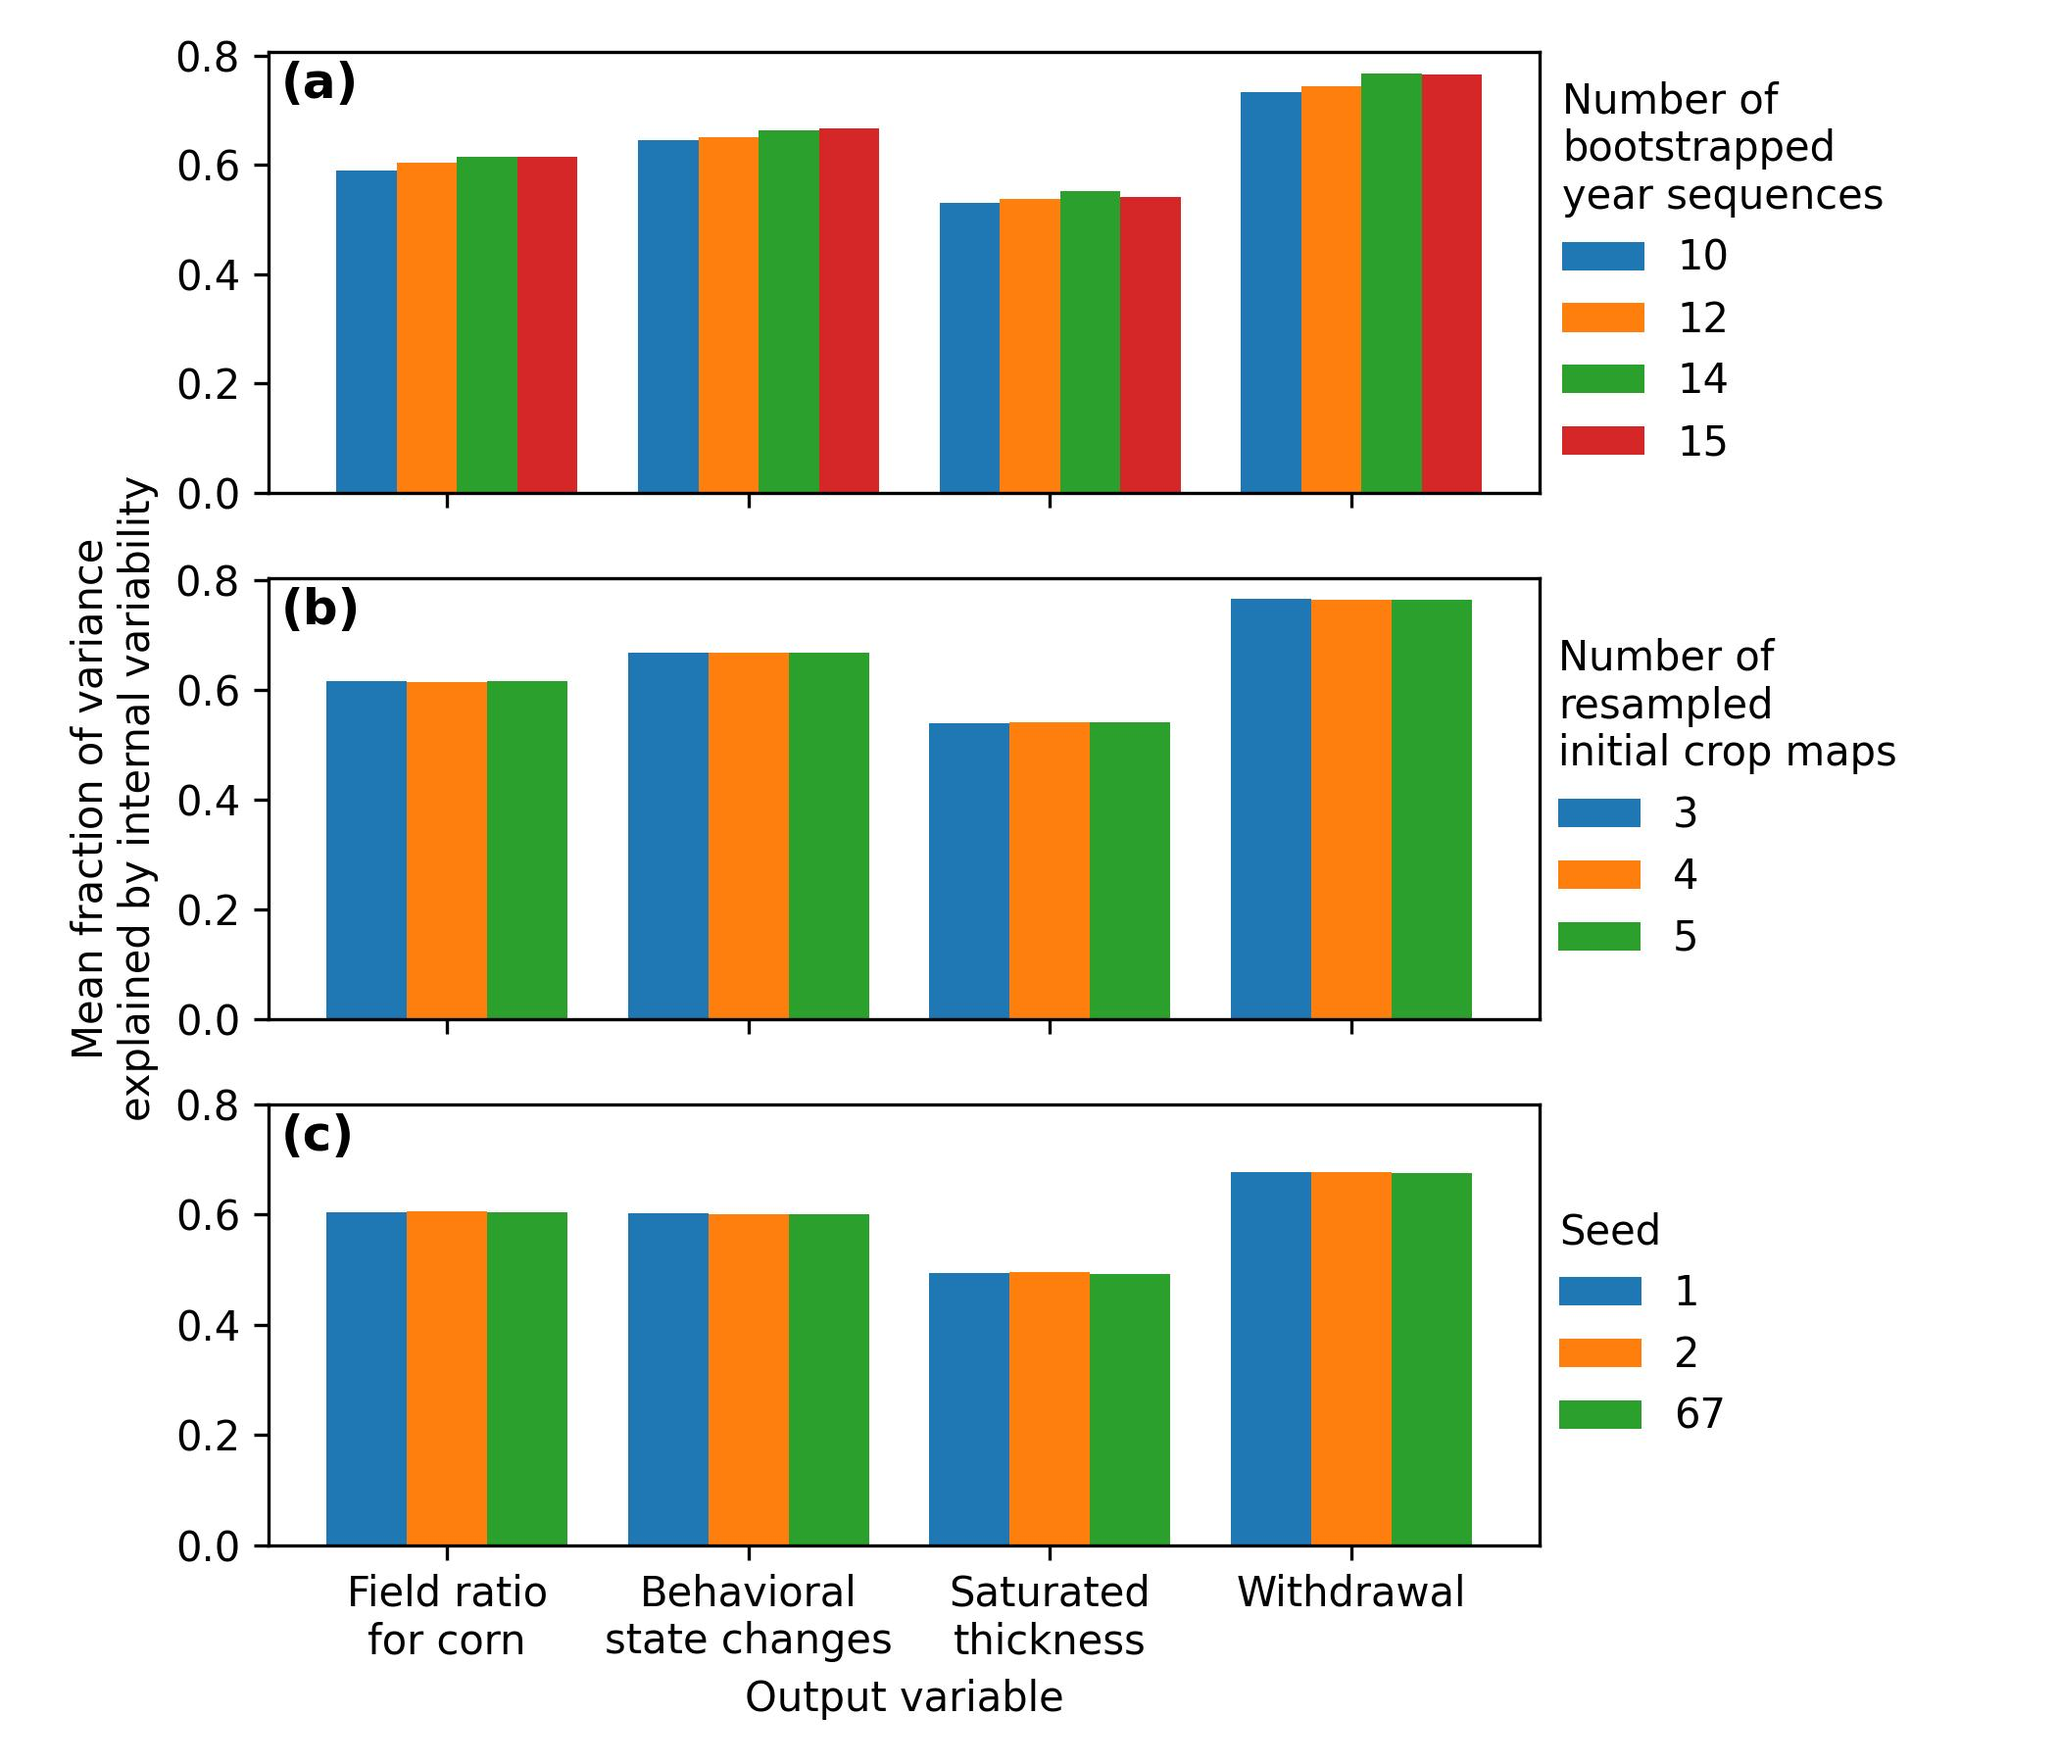
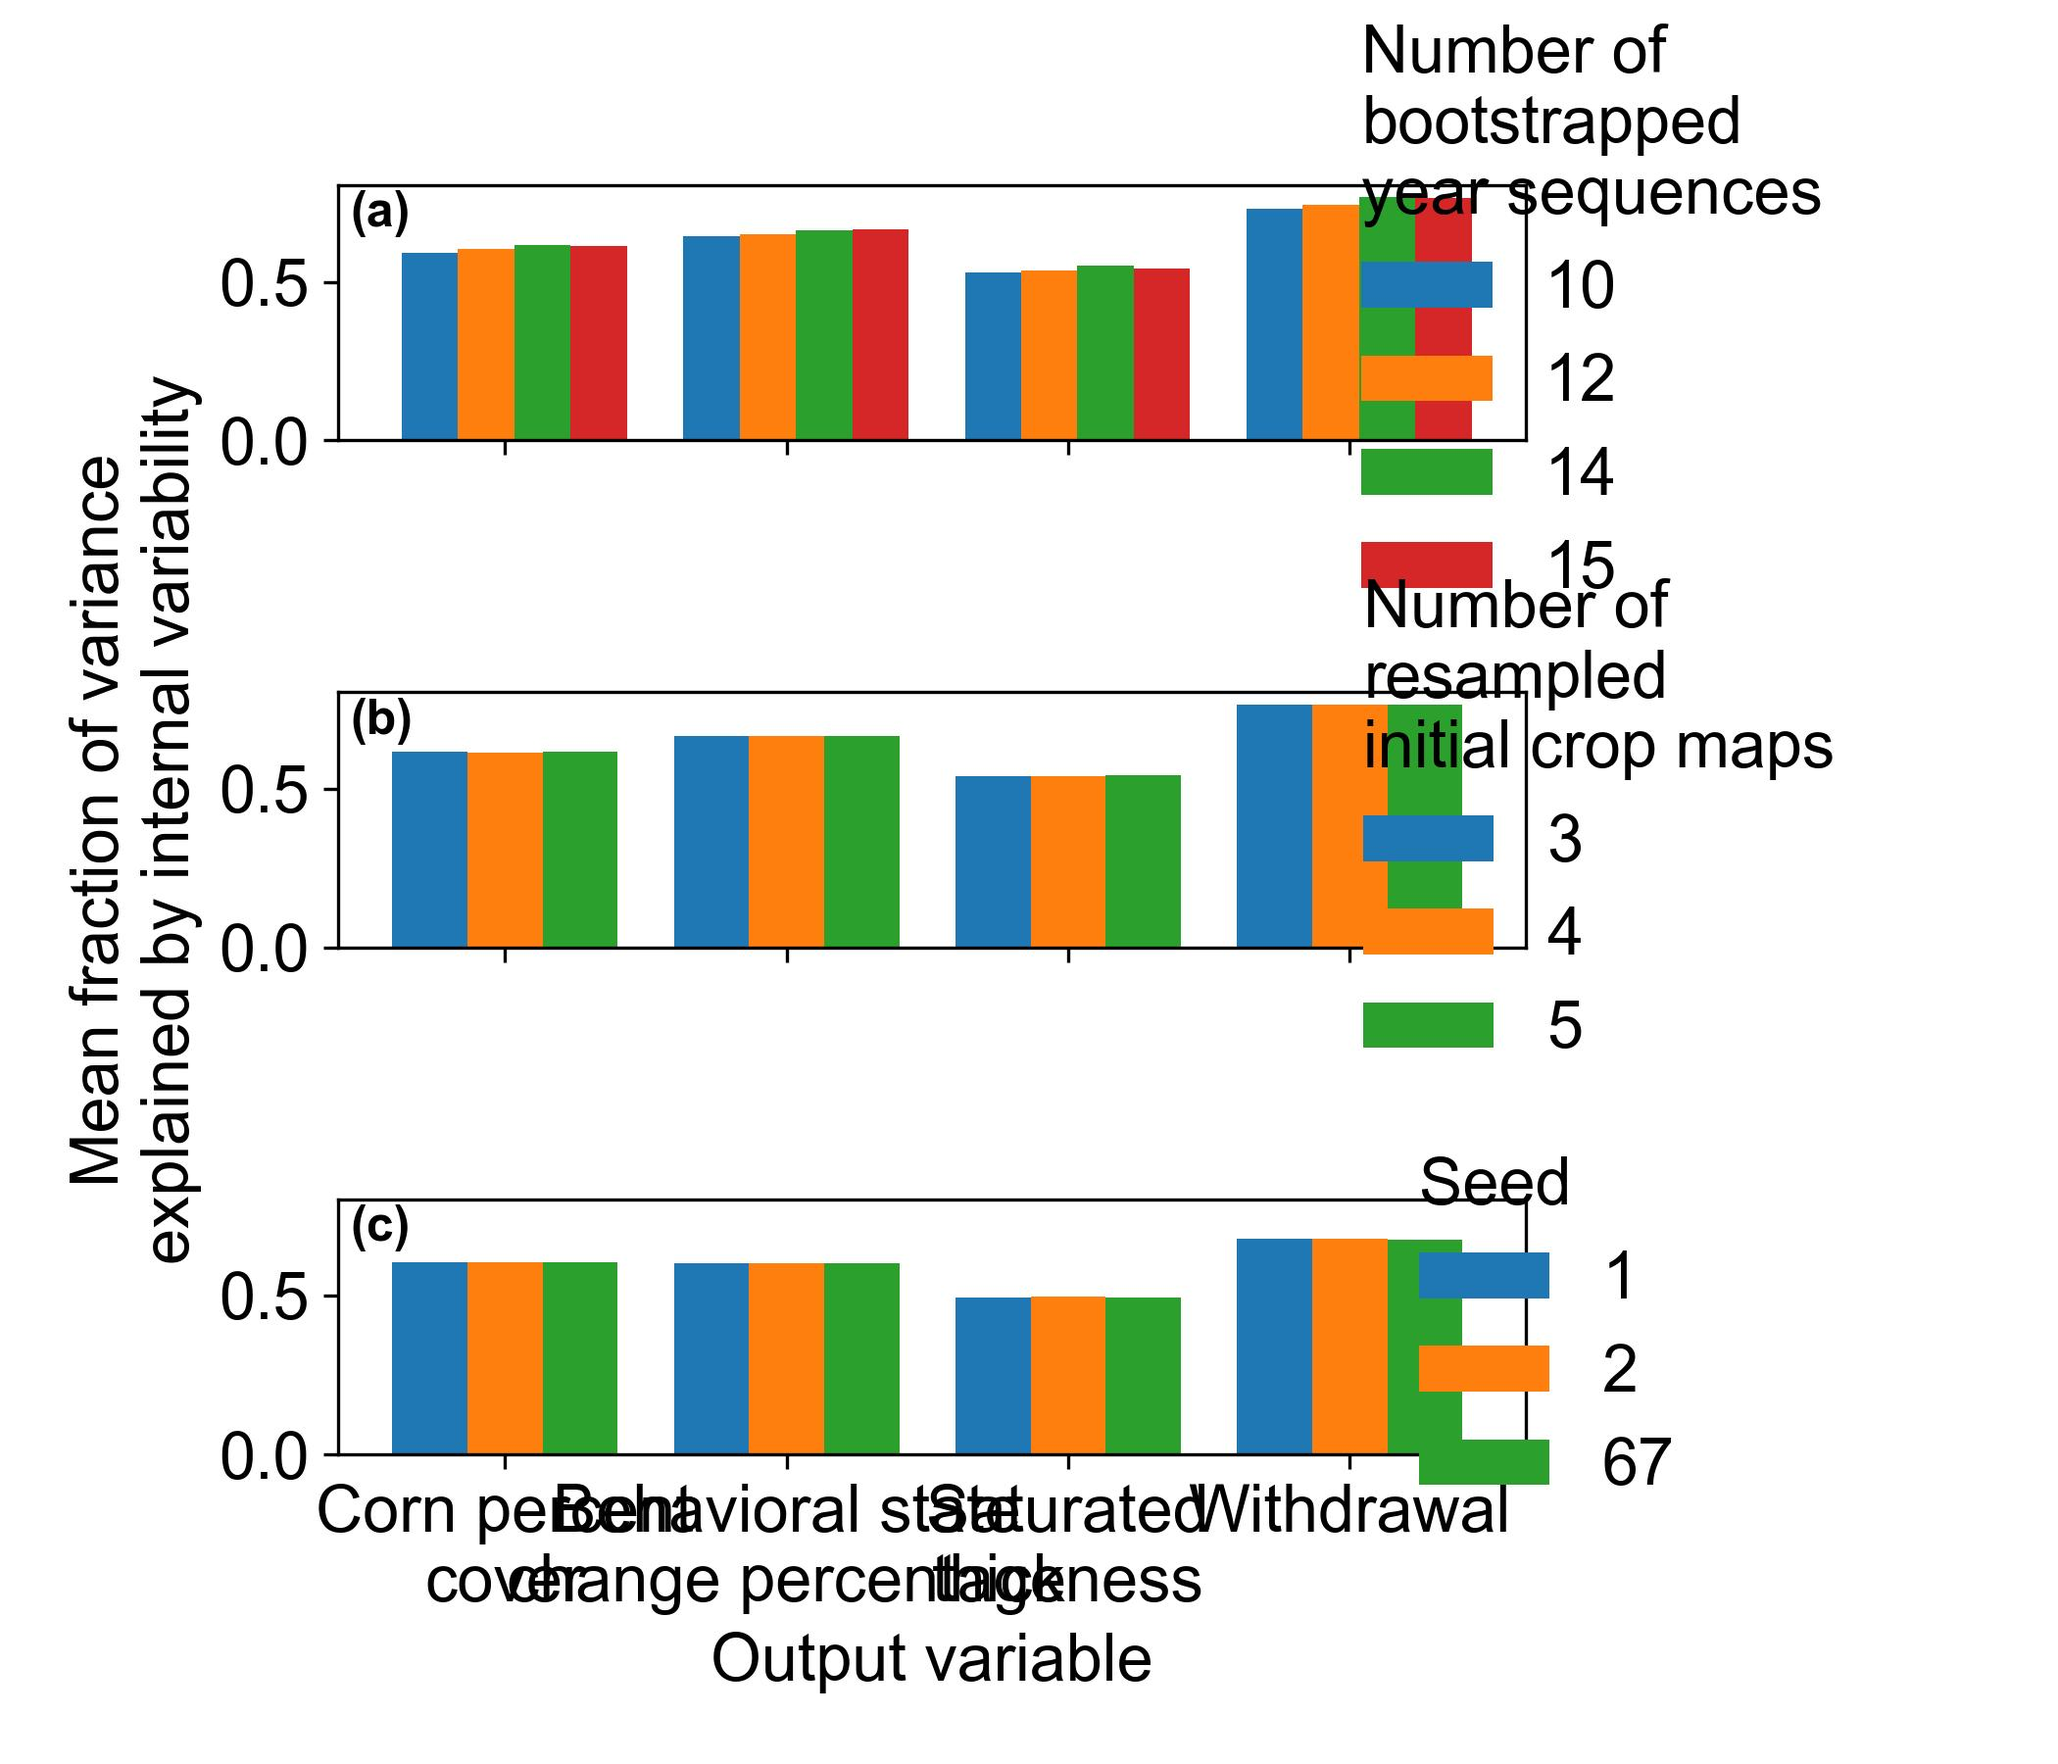
u

Changed region(s): [[0.031, 0.0, 0.9286, 0.9644], [0.1238, 0.0311, 0.1857, 0.0622], [0.0929, 0.8711, 0.1238, 0.9022]]

diff --git a/figures/code_for_plotting/figS6_convergence.py b/figures/code_for_plotting/figS6_convergence.py
@@ -16,10 +16,10 @@ vlist = ['ST', 'CF', 'Wi', 'CSC']
 var_dict = {
     'ST': 'Saturated\nthickness',
     'Wi': 'Withdrawal',
-    'RF': 'Rainfed\nfield ratio',
-    'CF': 'Field ratio\nfor corn',
-    'OF': 'Field ratio\nfor others',
-    'CSC': 'Behavioral\nstate changes',
+    'RF': 'Rainfed\npercent cover',
+    'CF': 'Corn percent\ncover',
+    'OF': 'Other crops\npercent cover',
+    'CSC': 'Behavioral state\nchange percentage',
     'TP': 'Total\nprofit'
     }
 #%%
